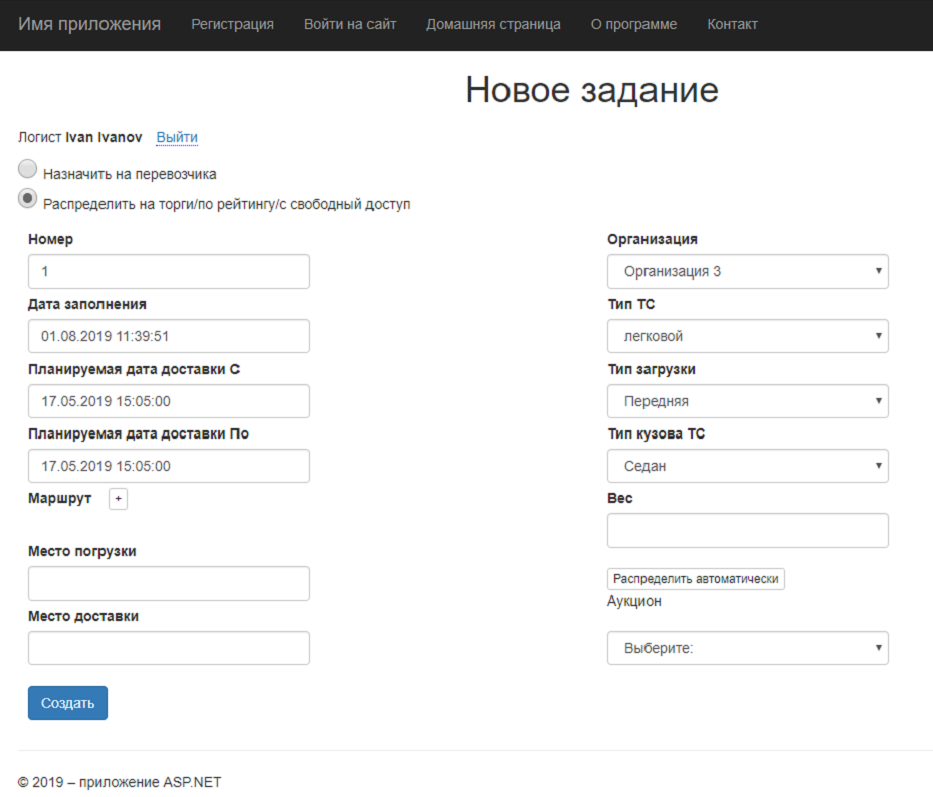
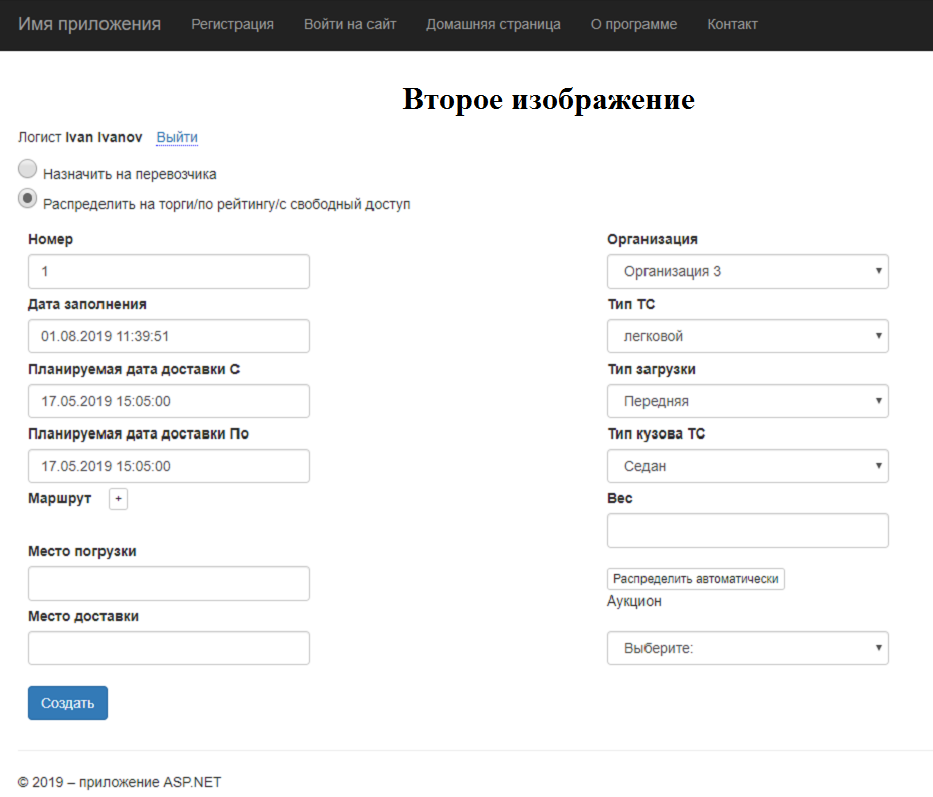
добавил заголовок слайдера, который зависит от картинки

Changed region(s): [[0.4352, 0.0903, 0.7771, 0.1506]]

diff --git a/js/slider.js b/js/slider.js
@@ -6,10 +6,12 @@ let multiItemSlider = (function () {
       mainElement = document.querySelector(selector), // основный элемент блока
       sliderWrapper = mainElement.querySelector('.slider-wrapper'), // обертка для .slider-item
       sliderItems = mainElement.querySelectorAll('.slider-item'), // элементы (.slider-item)
+      sliderTitle = document.querySelector('.slider-title'),
       sliderControls = mainElement.querySelectorAll('.slider-control'), // элементы управления
       wrapperWidth = parseFloat(getComputedStyle(sliderWrapper).width), // ширина обёртки
       itemWidth = parseFloat(getComputedStyle(sliderItems[0]).width), // ширина одного элемента    
       positionLeftItem = 0, // позиция левого активного элемента
+      itemsNumber = 0,
       _transform = 0, // значение трансформации .slider-wrapper
       step = itemWidth / wrapperWidth * 100, // величина шага (для трансформации)
       items = []; // массив элементов
@@ -55,6 +57,15 @@ let multiItemSlider = (function () {
       let nextItem;
       if (direction === 'right') {
         positionLeftItem++;
+        itemsNumber++;
+        if(itemsNumber < sliderItems.length && itemsNumber >= 0) 
+          sliderTitle.innerText = sliderItems[itemsNumber].attributes[2].value;
+
+        if(itemsNumber > sliderItems.length - 1 && itemsNumber >= 0) {
+          itemsNumber = 0;
+          sliderTitle.innerText = sliderItems[itemsNumber].attributes[2].value;
+        }
+
         if ((positionLeftItem + wrapperWidth / itemWidth - 1) > position.getMax()) {
           nextItem = position.getItemMin();
           items[nextItem].position = position.getMax() + 1;
@@ -63,8 +74,19 @@ let multiItemSlider = (function () {
         }
         _transform -= step;
       }
+
       if (direction === 'left') {
         positionLeftItem--;
+        itemsNumber--;
+        if(itemsNumber < sliderItems.length && itemsNumber < 0) {
+          itemsNumber = sliderItems.length - 1;
+          sliderTitle.innerText = sliderItems[itemsNumber].attributes[2].value;
+        }
+
+        if(itemsNumber < sliderItems.length && itemsNumber >= 0) {
+          sliderTitle.innerText = sliderItems[itemsNumber].attributes[2].value;
+        }
+
         if (positionLeftItem < position.getMin()) {
           nextItem = position.getItemMax();
           items[nextItem].position = position.getMin() - 1;

diff --git a/index.html b/index.html
@@ -45,26 +45,26 @@
 			</div>
 		</div>
 		<div class="slider-web">
-			<div class="slider-title">Заголовок</div>
+			<div class="slider-title">первое изображение</div>
 		  <div class="slider-wrapper">
-		    <a href="#" class="slider-item">
+		    <a href="#" class="slider-item" data-title="первое изображение">
 		      <img src="images/first-page.png" alt="c1">
 		    </a>
-		    <a href="#" class="slider-item">
-		      <img src="images/first-page.png" alt="c2">
+		    <a href="#" class="slider-item" data-title="второе изображение">
+		      <img src="images/second-page.png" alt="c2">
 		    </a>
-		    <a href="#" class="slider-item">
-		      <img src="images/first-page.png" alt="c3">
+		    <a href="#" class="slider-item" data-title="третье изображение">
+		      <img src="images/third-page.png" alt="c3">
 		    </a>
-		    <a href="#" class="slider-item">
-		      <img src="images/second-page.png" alt="c4">
+		    <a href="#" class="slider-item" data-title="четвертое изображение">
+		      <img src="images/fourth-page.png" alt="c4">
 		    </a>
-		    <a href="#" class="slider-item">
-		      <img src="images/second-page.png" alt="c5">
+		    <!-- <a href="#" class="slider-item" data-title="пятое изображение">
+		      <img src="images/fifth-page.png" alt="c5">
 		    </a>
-		    <a href="#" class="slider-item">
-		      <img src="images/second-page.png" alt="c6">
-		    </a>
+		    <a href="#" class="slider-item" data-title="шестое изображение">
+		      <img src="images/sixth-page.png" alt="c6">
+		    </a> -->
 		  </div>
 		  <a class="slider-control slider-control-left" href="#" role="button"></a>
 		  <a class="slider-control slider-control-right" href="#" role="button"></a>
